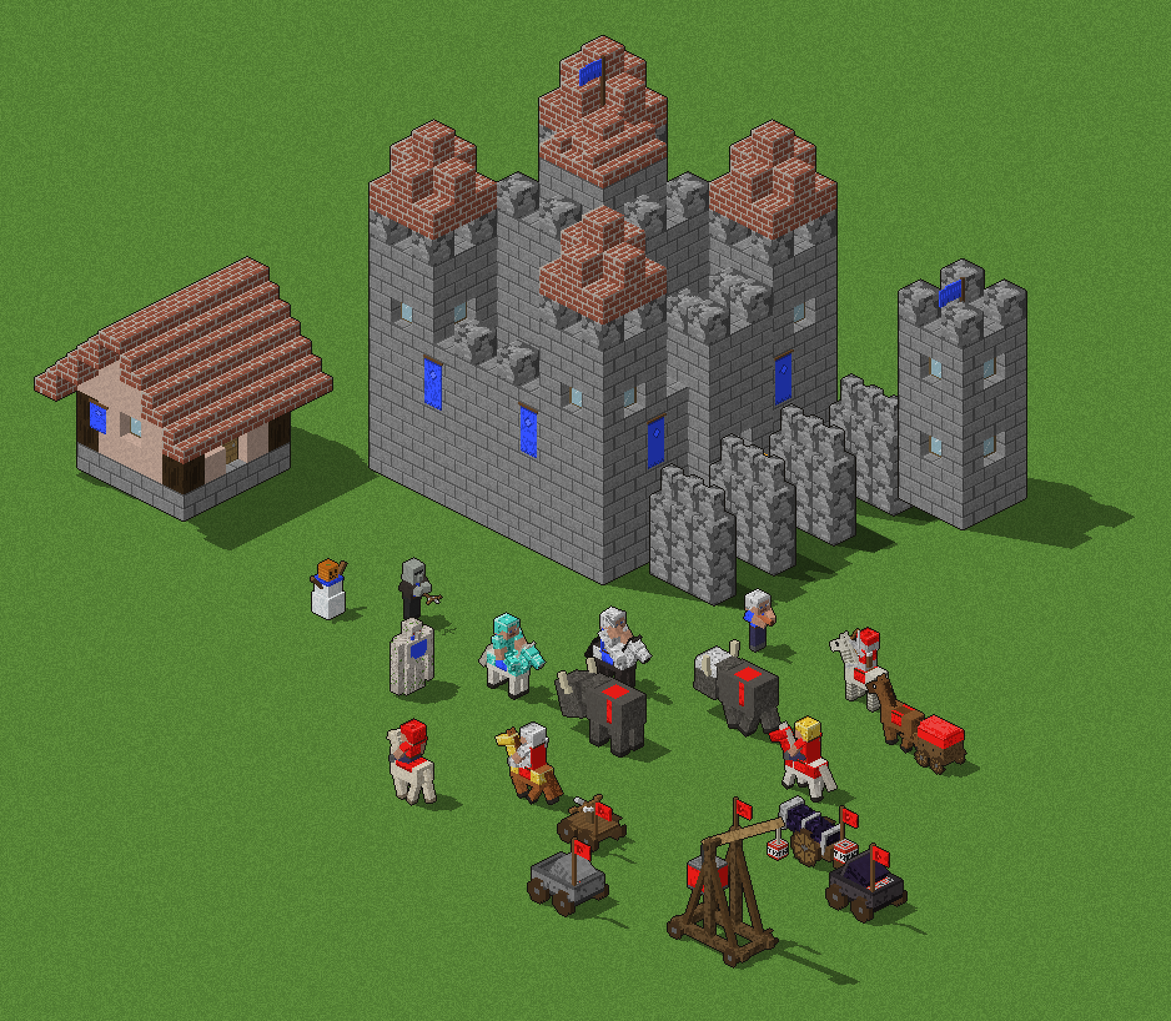
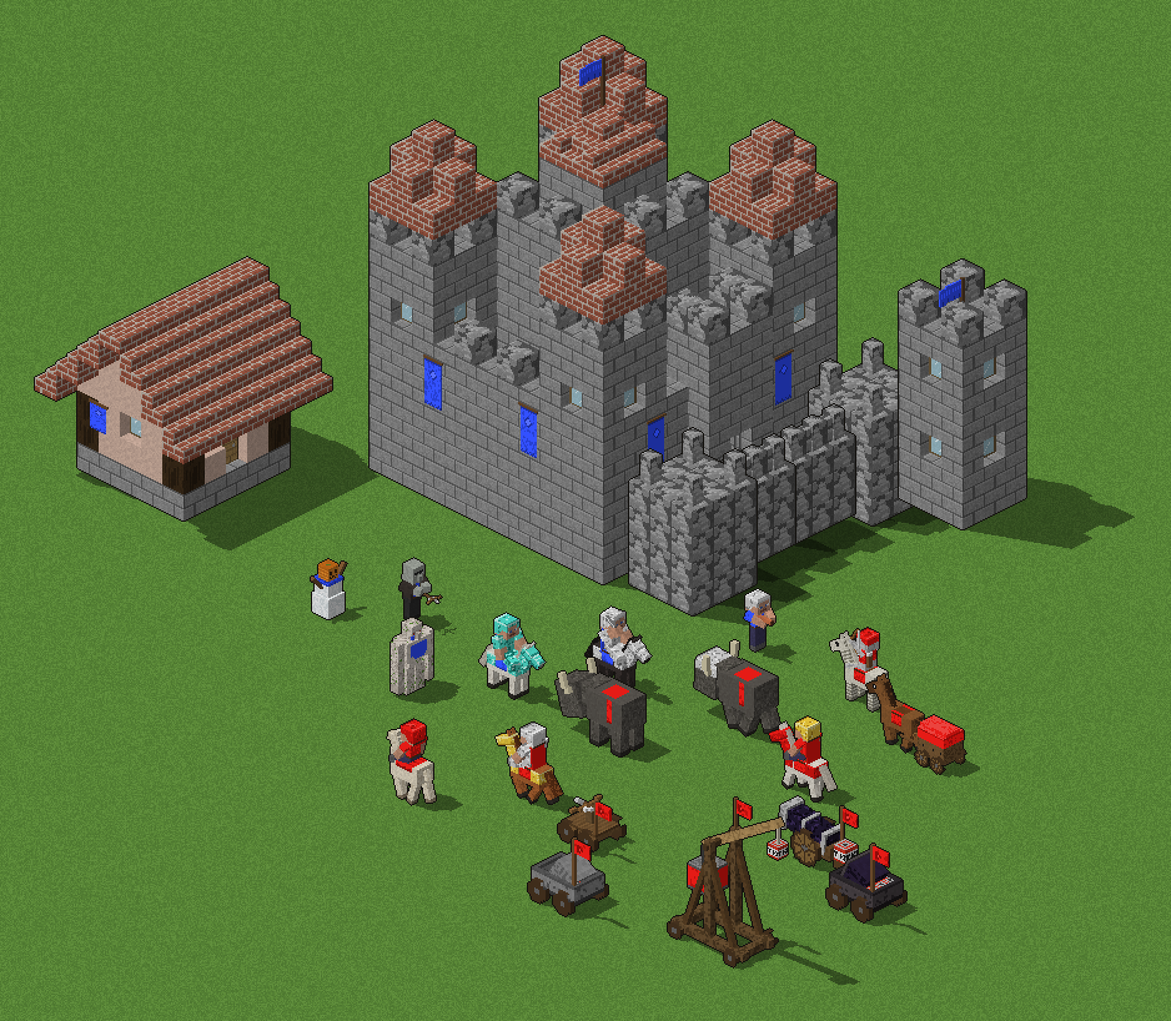
Join up walls: use the game's wall frame order and a full-tile post
The build guessed each wall frame's piece by comparing outlines, and got
it wrong in the game: a stone wall along the tile axis showed upright
posts with gaps, and palisade ends showed the wrong piece. The game picks
the frame from the wall line: 0 along map y ("/"), 1 along map x ("\\"),
2 the post at both ends and at corners, 3 "--", 4 "|" (the same order
as the gate letters, whose tower offsets confirm it). Each frame now gets
its piece in that order.

The post now fills its whole tile (a pillar one block taller than the
wall, with corner battlements; nine stakes for palisades), so walls
arriving from any direction meet it without a gap.

Adds previews/walls.png: wall lines in every direction and with corners,
placed as the game places them.

Claude-Session: https://claude.ai/code/session_01VAJsuE9baW4jfo6xTTenBC

Changed region(s): [[0.5256, 0.3117, 0.8038, 0.6235]]

diff --git a/tools/aom/props.py b/tools/aom/props.py
@@ -6,8 +6,7 @@ the original SLP's frames are organised:
     mode "variants"  each frame is a different variant (trees in a forest, house styles)
     mode "anim"      frames are an animation (flags, torches), angles are variants
     mode "facing"    angles are directions the object faces (signposts, the relic)
-    mode "match"     each frame is one of several pieces; pick the one whose outline
-                     matches the original frame (wall pieces)
+    mode "pieces"    each angle is one wall piece, in the game's fixed order (walls)
     mode "overlay"   an animated layer drawn over a static base (mill sails, forge smoke):
                      only the pixels that differ from the base are kept
 
@@ -144,12 +143,6 @@ def build(spec: dict, variant: int = 0, count: int = 1, t: float = 0.0, fit: Opt
     raise KeyError(m)
 
 
-def candidates(spec: dict, t: float = 0.0) -> list[Part]:
-    """Pieces to choose from in `match` mode."""
-    return [build({**spec, "piece": piece, "progress": spec.get("progress", 1.0) if "stages" not in spec
-                   else max(0.25, t)}) for piece in FT.PIECES]
-
-
 # --------------------------------------------------------------------------- rendering
 
 SHADOWS = {"on": True}
@@ -178,69 +171,26 @@ def frame_fit(frame: slp.SlpFrame) -> dict:
             "left": float(hx - xs.min()), "right": float(xs.max() - hx)}
 
 
-def _iou(a: np.ndarray, ah: tuple, b: np.ndarray, bh: tuple) -> float:
-    """Overlap of two masks aligned on their hotspots."""
-    x0 = min(-ah[0], -bh[0])
-    y0 = min(-ah[1], -bh[1])
-    x1 = max(a.shape[1] - ah[0], b.shape[1] - bh[0])
-    y1 = max(a.shape[0] - ah[1], b.shape[0] - bh[1])
-    A = np.zeros((y1 - y0, x1 - x0), bool)
-    Bm = np.zeros_like(A)
-    A[-ah[1] - y0:-ah[1] - y0 + a.shape[0], -ah[0] - x0:-ah[0] - x0 + a.shape[1]] = a
-    Bm[-bh[1] - y0:-bh[1] - y0 + b.shape[0], -bh[0] - x0:-bh[0] - x0 + b.shape[1]] = b
-    union = (A | Bm).sum()
-    return float((A & Bm).sum() / union) if union else 0.0
-
-
 def _shifted(frame: slp.SlpFrame, shift) -> slp.SlpFrame:
     if not shift:
         return frame
     return slp.SlpFrame(frame.pixels, (frame.hotspot[0] - int(round(shift[0])), frame.hotspot[1] - int(round(shift[1]))))
 
 
-def _match_pieces(spec, orig, used, F, stored, quant, cache) -> list[slp.SlpFrame]:
-    """For every frame, the wall piece whose outline best matches the original frame.
-
-    Frames that form one complete set of pieces (5 angles, one per piece) are
-    matched one-to-one, so every piece is used exactly once per set.
-    """
-    from itertools import permutations
-
-    def rendered_at(t):
-        key = round(t, 3)
-        if key not in cache:
-            outs = []
-            for c in candidates(spec, t):
-                f, cam = _render(c, HEADING)
-                outs.append(_crop(_codes(f, quant), cam.origin))
-            cache[key] = outs
-        return cache[key]
-
-    picks: list = [None] * used
-    groups: dict[float, list[int]] = {}
+def _wall_pieces(spec, used, F, stored, quant, cache) -> list[slp.SlpFrame]:
+    """Every frame's wall piece: angle a shows FT.PIECES[a]; walls being built grow over an angle's frames."""
+    out = []
     for k in range(used):
         a, fi = divmod(k, F)
         t = fi / max(1, F - 1) if F > 1 and k < F * stored else 1.0
-        groups.setdefault(round(t, 3), []).append(k)
-    for t, ks in groups.items():
-        pieces = rendered_at(t)
-        if orig is None:
-            for i, k in enumerate(ks):
-                picks[k] = pieces[i % len(pieces)]
-            continue
-        scores = np.zeros((len(ks), len(pieces)))
-        for i, k in enumerate(ks):
-            if k < len(orig):
-                om, oh = solid_mask(orig[k])
-                scores[i] = [_iou(om, oh, r.pixels >= 0, r.hotspot) for r in pieces]
-        if len(ks) == len(pieces):
-            best = max(permutations(range(len(pieces))), key=lambda perm: sum(scores[i, j] for i, j in enumerate(perm)))
-            for i, k in enumerate(ks):
-                picks[k] = pieces[best[i]]
-        else:
-            for i, k in enumerate(ks):
-                picks[k] = pieces[int(np.argmax(scores[i]))]
-    return picks
+        piece = FT.PIECES[a % len(FT.PIECES)]
+        progress = max(0.25, t) if spec.get("stages") else spec.get("progress", 1.0)
+        key = (piece, round(progress, 3))
+        if key not in cache:
+            f, cam = _render(build({**spec, "piece": piece, "progress": progress}), HEADING)
+            cache[key] = _crop(_codes(f, quant), cam.origin)
+        out.append(cache[key])
+    return out
 
 
 def render_static(spec: dict, num_frames: int, frames_per_angle: int, angle_count: int, mirroring: bool,
@@ -250,8 +200,8 @@ def render_static(spec: dict, num_frames: int, frames_per_angle: int, angle_coun
     F = max(1, frames_per_angle)
     hs = headings(angle_count, mirroring)
     stored = len(hs)
-    used = num_frames if mode in ("variants", "match", "static") else min(num_frames, F * stored)
-    orig = slp.decode(original) if original and (spec.get("fit") or mode == "match") else None
+    used = num_frames if mode in ("variants", "pieces", "static") else min(num_frames, F * stored)
+    orig = slp.decode(original) if original and spec.get("fit") else None
     shift = spec.get("shift")
     SHADOWS["on"] = spec.get("shadow", True)  # projectiles fly: the game draws their shadows separately
     out: list[slp.SlpFrame] = []
@@ -271,10 +221,9 @@ def render_static(spec: dict, num_frames: int, frames_per_angle: int, angle_coun
             codes_f, codes_b = _codes(ff, quant), _codes(fb, quant)
             layer = np.where(codes_f != codes_b, codes_f, slp.TRANSPARENT).astype(np.int16)
             out.append(_shifted(_crop(layer, cam.origin), shift))
-    elif mode == "match":
-        picks = _match_pieces(spec, orig, used, F, stored, quant, cache)
-        for k in range(used):
-            out.append(_shifted(picks[k], shift))
+    elif mode == "pieces":
+        for piece in _wall_pieces(spec, used, F, stored, quant, cache):
+            out.append(_shifted(piece, shift))
     else:
         for k in range(used):
             a, fi = divmod(k, F)

diff --git a/tools/aom/fortifications.py b/tools/aom/fortifications.py
@@ -1,15 +1,20 @@
 """Walls, gates, towers and the castle.
 
-Wall graphics in the game hold five pieces, one per "angle": a post and a
-straight segment in each of four screen directions. Our pieces:
+Wall graphics in the game hold five pieces, one per "angle". The game picks
+the angle from the wall's line: frame 0 runs along the map's y axis (screen
+"/"), frame 1 along its x axis (screen "\\"), frame 2 is the post used at
+both ends of a line and at its corners, frame 3 runs diagonally across the
+screen ("--") and frame 4 up and down it ("|"). Gates use the same order
+(letters A to D, without the post). Our pieces, in that order:
 
-    post  a pillar                      x  along model x   (screen "/")
-    y     along model y (screen "\\")   v  along x = y     (screen "|")
-    h     along x = -y (screen "--")
+    x     along model x (screen "/")    y  along model y (screen "\\")
+    post  a pillar filling the tile     h  along x = -y (screen "--")
+    v     along x = y (screen "|")
 
-Straight pieces are one block thick; diagonal ones are Minecraft block
-staircases, so a diagonal wall looks the way it would in Minecraft. The
-build matches each original wall frame to the piece with the same outline.
+Straight pieces are one block thick and reach just past the tile's edges, so
+neighbours join up; diagonal ones are Minecraft block staircases whose end
+blocks meet the next tile's at the corner. The post fills its whole tile, so
+a wall arriving from any side meets it.
 """
 from __future__ import annotations
 
@@ -21,7 +26,7 @@ from .structures import flag, team_banner, torch
 from .styles import Style, style_for
 
 B = V.BLOCK
-PIECES = ("post", "x", "y", "v", "h")
+PIECES = ("x", "y", "post", "h", "v")  # the game's frame order
 
 
 def _cell(name: str) -> V.Structure:
@@ -29,7 +34,7 @@ def _cell(name: str) -> V.Structure:
 
 
 def _piece_cells(piece: str) -> list[tuple[int, int]]:
-    return {"post": [(1, 1)], "x": [(0, 1), (1, 1), (2, 1)], "y": [(1, 0), (1, 1), (1, 2)],
+    return {"post": [(x, y) for x in range(3) for y in range(3)], "x": [(0, 1), (1, 1), (2, 1)], "y": [(1, 0), (1, 1), (1, 2)],
             "v": [(0, 0), (1, 1), (2, 2)], "h": [(2, 0), (1, 1), (0, 2)]}[piece]
 
 
@@ -73,18 +78,25 @@ def wall_piece(kind: str, style: str, piece: str, damage: int = 0, progress: flo
             continue
         if kind == "palisade":
             s.set(x, y, height, "spruce_log", "post")  # sharpened stakes
+        elif piece == "post":
+            continue  # the pillar gets its own top below
         elif kind == "stone":
             if not damage or rng.random() > 0.4:
                 s.set(x, y, height, top, "wall")
         elif (x + y) % 2 == 0 and (not damage or rng.random() > 0.5):
             s.set(x, y, height, top)
     if piece == "post" and progress >= 1:
-        x, y = cells[0]
-        extra = {"palisade": 1, "stone": 1, "fortified": 2}[kind]
-        for z in range(height, height + extra):
-            s.set(x, y, z, top if kind != "palisade" else "spruce_log")
-        if kind != "palisade":
-            s.set(x, y, height + extra, top, "slab")
+        if kind == "palisade":  # the middle stake stands a log taller
+            s.set(1, 1, height, "spruce_log")
+            s.set(1, 1, height + 1, "spruce_log", "post")
+        else:  # a pillar one block taller than the wall, with a battlement on its corners
+            for x in range(3):
+                for y in range(3):
+                    if not damage or rng.random() > 0.3 * damage:
+                        s.set(x, y, height, body)
+            for x, y in ((0, 0), (2, 0), (0, 2), (2, 2)):
+                if not damage or rng.random() > 0.4:
+                    s.set(x, y, height + 1, top, "wall" if kind == "stone" else "full")
     if damage >= 2:
         for (x, y) in cells:
             if rng.random() < 0.5:

diff --git a/tools/concept_sheet.py b/tools/concept_sheet.py
@@ -13,6 +13,7 @@ Writes into previews/ by default:
     buildings.png       every building in the five village styles
     wonders.png         the eighteen wonders and the scenario monuments
     fortifications.png  walls, gates, towers and castles
+    walls.png           wall lines in every direction, with corners, as the game places them
     nature.png          trees, resources and map decorations
 and docs/UNITS.md, the full unit list.
 """
@@ -341,6 +342,38 @@ def fortifications_sheet(out: Path) -> None:
     structure_sheet("Walls, gates, towers and castles", rows, out)
 
 
+def wall_line(kind: str, style: str, tiles: list[tuple[float, float]]) -> list[tuple[dict, float, float]]:
+    """Wall tiles along a path, with the piece the game picks for each: posts at the ends and corners."""
+    from aom.fortifications import PIECES
+    spots = []
+    for k, (i, j) in enumerate(tiles):
+        before = tiles[k - 1] if k else None
+        after = tiles[k + 1] if k + 1 < len(tiles) else None
+        if before is None or after is None or (i - before[0], j - before[1]) != (after[0] - i, after[1] - j):
+            piece = "post"
+        else:
+            di, dj = after[0] - i, after[1] - j
+            if di < 0 or (di == 0 and dj < 0):
+                di, dj = -di, -dj
+            # i runs along screen "\\" (the game's frame 1), j along "/" (frame 0); diagonals are frames 3 and 4
+            piece = PIECES[{(1, 0): 1, (0, 1): 0, (1, -1): 3, (1, 1): 4}[(di, dj)]]
+        spots.append(({"model": "wall", "kind": kind, "style": style, "piece": piece}, i, j))
+    return spots
+
+
+def walls_scene(out: Path) -> None:
+    """Palisade, stone and fortified walls, one row each: "--", "\\" and "|" lines, then a corner."""
+    spots = []
+    for n, (kind, style) in enumerate((("palisade", "G"), ("stone", "E"), ("fortified", "W"))):
+        o = 6 * n  # the next row, lower down the screen
+        spots += wall_line(kind, style, [(o + k, o - k) for k in range(4)])
+        spots += wall_line(kind, style, [(o + 4 + k, o - 6) for k in range(4)])
+        spots += wall_line(kind, style, [(o + 6 + k, o - 10 + k) for k in range(4)])
+        spots += wall_line(kind, style, [(o + 8, o - 13), (o + 8, o - 12), (o + 8, o - 11), (o + 9, o - 11),
+                                         (o + 10, o - 11)])
+    compose(place_buildings(spots), out, k=1)
+
+
 def nature_sheet(out: Path) -> None:
     rows = [("Forests", [(f, {"model": "tree", "forest": f, "variant": v})
                          for f, v in (("oak", 0), ("oak", 4), ("forest", 1), ("pine", 0), ("snow", 2), ("palm", 1),
@@ -378,7 +411,8 @@ def battle_scene(out: Path, units: dict[str, Unit]) -> None:
     placed = place_buildings([(B("CSTL", "W", 3), 1.5, 1.5), (B("HOUS", "W", 3), -2.0, 5.0),
                               (B("WCTW", "W", 3, level=2), 5.0, -1.0)])
     for k in range(4):
-        placed += place_buildings([({"model": "wall", "kind": "stone", "style": "W", "piece": "y"}, 4.2, k - 0.3)])
+        placed += place_buildings([({"model": "wall", "kind": "stone", "style": "W",
+                                     "piece": "post" if k in (0, 3) else "x"}, 4.2, k - 0.3)])
     army = [
         ("knight", 1, 5.2, 5.0, 7, "attack", 0.5), ("paladin", 1, 4.4, 6.0, 7, "idle", 0),
         ("crossbowman", 1, 2.4, 5.6, 7, "attack", 0.5), ("hand_cannoneer", 1, 5.8, 3.2, 7, "idle", 0),
@@ -470,6 +504,7 @@ def main() -> None:
     buildings_sheet(out / "buildings.png")
     wonders_sheet(out / "wonders.png")
     fortifications_sheet(out / "fortifications.png")
+    walls_scene(out / "walls.png")
     nature_sheet(out / "nature.png")
     unit_table(units, ROOT / "docs" / "UNITS.md")
     print(f"previews written to {out}")

diff --git a/tools/aom/spritemap.py b/tools/aom/spritemap.py
@@ -142,7 +142,7 @@ def plan(graphics: dict, taken: set[int] = frozenset()) -> Plan:
             style = STYLE_OF[m.group(3) or "G"]
             wall_layer = "1" if kind == "palisade" else "N"
             if m.group(2) == wall_layer:
-                add(g, {"model": "wall", "kind": kind, "style": style, "mode": "match"})
+                add(g, {"model": "wall", "kind": kind, "style": style, "mode": "pieces"})
             else:
                 blank(g, "wall shadow or flag", r"^WALL")
             continue
@@ -150,7 +150,7 @@ def plan(graphics: dict, taken: set[int] = frozenset()) -> Plan:
         if m:
             if m.group(3) == "N":
                 add(g, {"model": "wall", "kind": "stone" if m.group(1) == "1" else "fortified",
-                        "style": m.group(4), "damage": "ABC".index(m.group(2)) + 1, "mode": "match"},
+                        "style": m.group(4), "damage": "ABC".index(m.group(2)) + 1, "mode": "pieces"},
                     "damaged wall")
             else:
                 blank(g, "damaged wall shadow", r"^WDS")
@@ -159,7 +159,7 @@ def plan(graphics: dict, taken: set[int] = frozenset()) -> Plan:
         if m:
             if m.group(2) == "N":
                 add(g, {"model": "wall", "kind": "stone" if m.group(1) == "2" else "fortified",
-                        "style": m.group(3), "mode": "match", "stages": True}, "wall being built")
+                        "style": m.group(3), "mode": "pieces", "stages": True}, "wall being built")
             else:
                 blank(g, "wall construction shadow", r"^WCON")
             continue

diff --git a/tools/build_mod.py b/tools/build_mod.py
@@ -398,8 +398,7 @@ def main(argv=None) -> int:
                 skipped.append((Target(sp.slp, sp.source, "static"), str(exc)))
                 continue
             frames, angles, mirrored, _, _ = game.layout(sp.slp, n)
-            needs = sp.spec.get("fit") or sp.spec.get("mode") == "match"
-            original = game.original(sp.spec.get("fit_slp", sp.slp)) if needs else None
+            original = game.original(sp.spec.get("fit_slp", sp.slp)) if sp.spec.get("fit") else None
             jobs.append(("static", sp.slp, sp.spec, n, frames, angles, mirrored, original))
             statics.append((sp, n))
         static_blanks = {s: why for s, why in sprite_plan.blanks.items()

diff --git a/tools/tests/test_export.py b/tools/tests/test_export.py
@@ -265,6 +265,8 @@ def test_full_build(tmp: Path):
     assert out.get(2219) == orig.get(2219)  # shared with a ship: left alone
     wall = slp.decode(out.get(2098))
     assert len({f.pixels.tobytes() for f in wall}) == 5  # five different wall pieces
+    w = [f.pixels.shape[1] for f in wall]  # in the game's order: "/", "\", the post, "--", "|"
+    assert w[3] > 1.5 * w[4] and w[2] > w[0] > w[4]
     assert "BUILDINGS AND SCENERY" in report and "BRKS2NNE" in report and "FOAK_NN" in report
     # Pac-Man can be trained at the Wonder, and has his own icon
     from aom import datunits

diff --git a/docs/DESIGN.md b/docs/DESIGN.md
@@ -116,7 +116,7 @@ stone with gold trim (and corner towers on the Town Center).
 | Watch / Guard Tower, Keep | wooden lookout → stone tower with battlements → keep with an overhanging top |
 | Bombard Tower | a squat deepslate tower with dispensers and TNT |
 | Outpost | a lookout post with a torch |
-| Palisade / Stone / Fortified Wall | spruce stakes / cobblestone wall / stone bricks with battlements; diagonal walls are block staircases |
+| Palisade / Stone / Fortified Wall | spruce stakes / cobblestone wall / stone bricks with battlements; diagonal walls are block staircases; ends and corners are pillars filling the tile, so every wall line joins up |
 | Gates | an arch with an iron-bar portcullis, down when shut and up when open, between two towers |
 | Castle | curtain walls, four corner towers, a gatehouse and a keep, in the civilisation's style |
 | Wonders | one per civilisation: Westminster, Chartres, Hagia Sophia, the Temple of Heaven, Templo Mayor, Tikal, Hwangnyongsa and the rest |
@@ -212,9 +212,10 @@ box model + pixel textures  ──render──▶  frames (colour + team-colour 
    count, angle count and mirroring are read from the player's
    `graphics.drs` and `.dat`, and the sprite is rendered in exactly that
    layout. Extra layers of composite sprites (ram heads, sails, building
-   shadows, roof pieces, flags) are blanked. Wall frames are matched to our
-   wall pieces by comparing outlines, and forest trees are grown to the
-   height of the tree they replace.
+   shadows, roof pieces, flags) are blanked. Each wall frame gets the piece
+   the game draws in it (frame 0 "/", 1 "\\", 2 the post at ends and
+   corners, 3 "--", 4 "|"), and forest trees are grown to the height of the
+   tree they replace.
 5. **Install** as a UserPatch 1.5 data mod: `Games\AgeOfMinecraft.xml`,
    `Games\AgeOfMinecraft\Data\graphics.drs`, and
    `age2_x1\AgeOfMinecraft.exe` made by `SetupAoC.exe -g:AgeOfMinecraft`.

diff --git a/README.md b/README.md
@@ -47,6 +47,7 @@ python tools/concept_sheet.py        # writes previews/* and docs/UNITS.md
 | `previews/village.png` | a Dark Age village with fields, a forest and mines |
 | `previews/buildings.png` | every building in the five village styles and the ages |
 | `previews/fortifications.png` | walls, gates, towers and castles |
+| `previews/walls.png` | wall lines in every direction and with corners, placed as the game places them |
 | `previews/wonders.png` | the eighteen wonders and the scenario monuments |
 | `previews/nature.png` | trees, resources and map decorations |
 | `previews/player_colors.png` | a unit in all 8 player colours |
